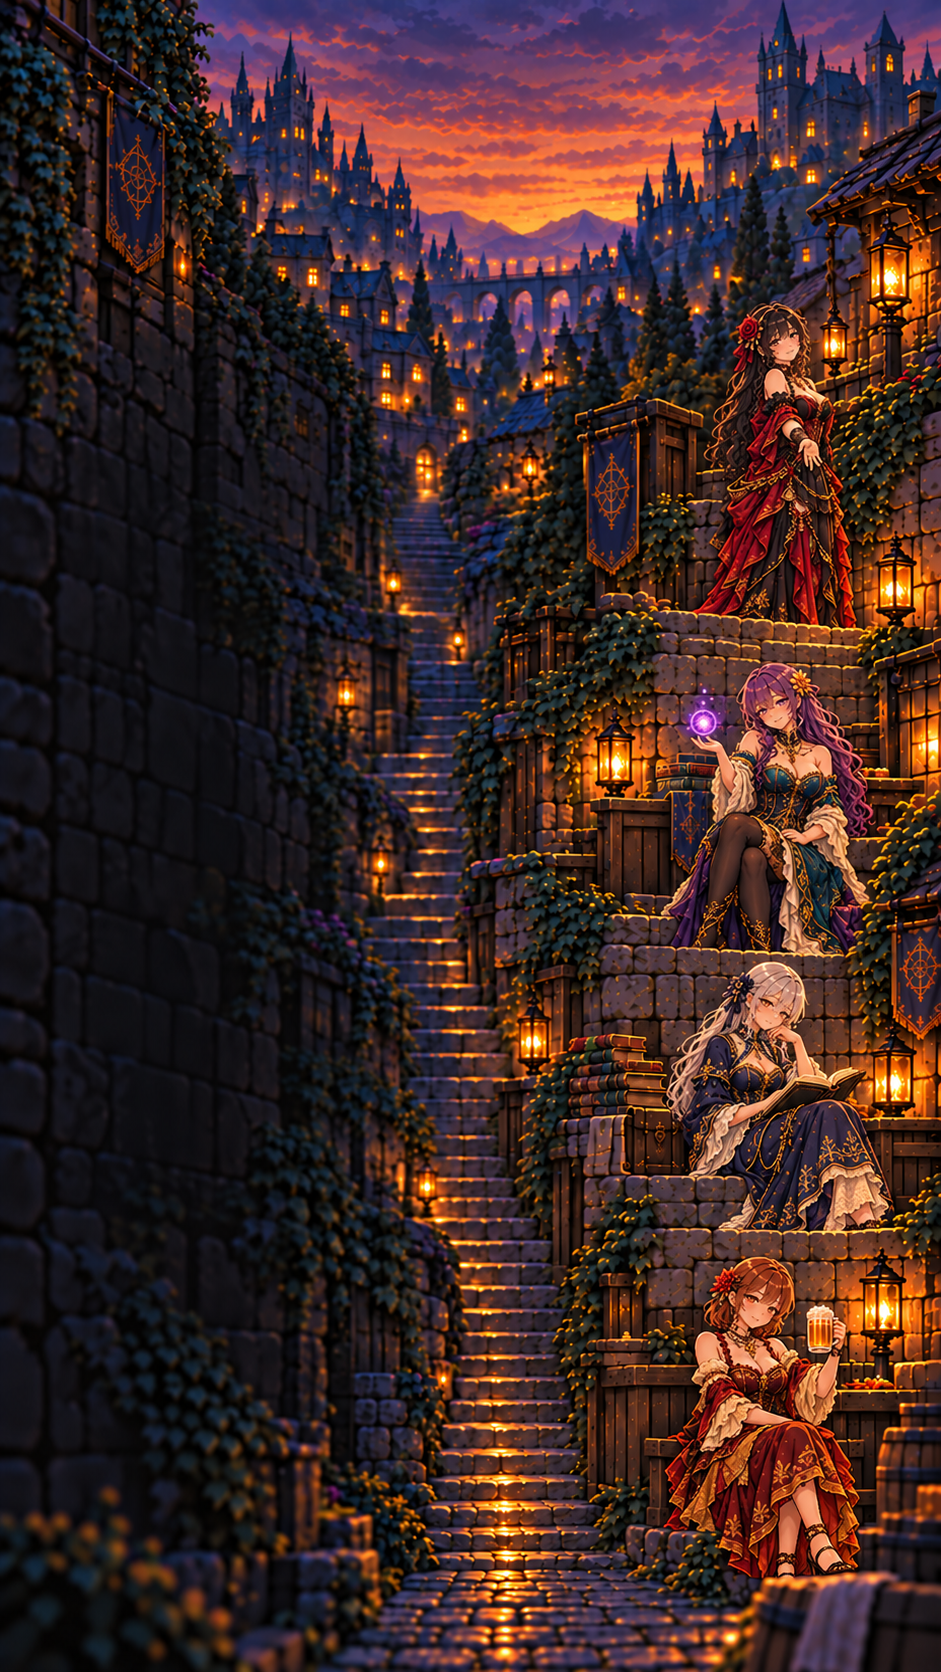
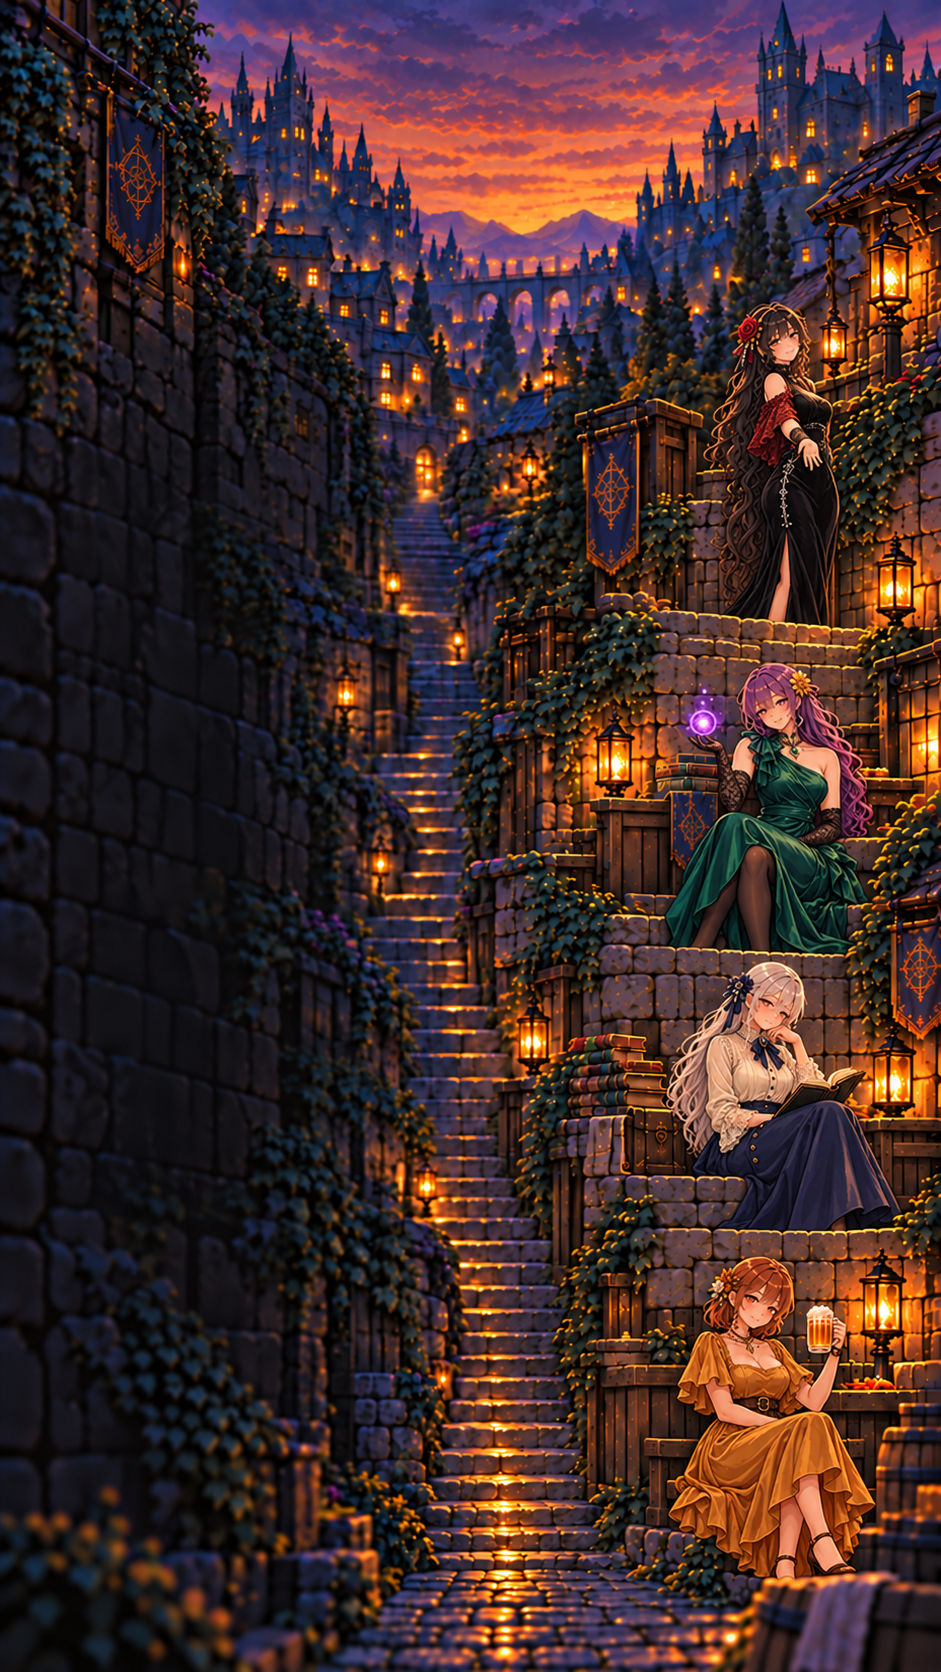
Give each RPG character a distinctly tailored new wardrobe

diff --git a/command-center-98/rpg-account-pages.css b/command-center-98/rpg-account-pages.css
@@ -6,7 +6,7 @@ body dialog.manual-operation-review.rpg-account-page {
  box-sizing:border-box;width:min(920px,100vw);height:100dvh;max-width:100vw;max-height:100dvh;
  margin:auto;padding:28px clamp(16px,4vw,42px) 40px;overflow:auto;overscroll-behavior:contain;
  border:1px solid #bf9c58!important;border-radius:0!important;color:#fff5df!important;
- background:linear-gradient(180deg,#0b101e50,#090e19df 380px),var(--rpg-account-background,url('./assets/rpg-home/world.png?v=20261012.3'))!important;
+ background:linear-gradient(180deg,#0b101e50,#090e19df 380px),var(--rpg-account-background,url('./assets/rpg-home/world.png?v=20261012.4-wardrobe'))!important;
  background-size:cover!important;background-position:center top!important;
  font:15px/1.7 system-ui,-apple-system,'Noto Sans CJK JP','Yu Gothic',sans-serif;
  box-shadow:0 0 100px #0009!important;color-scheme:dark;
@@ -21,8 +21,8 @@ body dialog.rpg-account-page .rpg-account-header{position:relative;isolation:iso
 body dialog.rpg-account-page .rpg-account-header h2{font:clamp(26px,4vw,42px)/1.35 CCRpgDot,monospace;margin:3px 0 8px;color:#fff6dc;letter-spacing:.05em;text-shadow:0 2px 4px #000}
 body dialog.rpg-account-page .rpg-account-kicker{font-size:11px;letter-spacing:.16em;color:#e2c68c;margin:0}
 body dialog.rpg-account-page .rpg-account-subtitle{margin:0;font-size:14px;color:#f1e8d9;text-shadow:0 1px 3px #000}
-body dialog.rpg-account-page .rpg-account-character{position:absolute;right:0;bottom:0;z-index:-1;pointer-events:none;width:200px;height:220px;background-image:var(--rpg-kyun-character,url('./assets/rpg-home/world.png?v=20261012.3'));background-size:620px auto;background-position:-390px -180px;background-repeat:no-repeat;mask-image:linear-gradient(90deg,transparent,#000 15%),linear-gradient(0deg,transparent,#000 12%);mask-composite:intersect}
-body dialog.rpg-account-page[data-account="choi"] .rpg-account-character{background-image:var(--rpg-choi-character,url('./assets/rpg-home/world.png?v=20261012.3'));background-position:-390px -420px}
+body dialog.rpg-account-page .rpg-account-character{position:absolute;right:0;bottom:0;z-index:-1;pointer-events:none;width:200px;height:190px;background-image:var(--rpg-kyun-character,url('./assets/rpg-home/world.png?v=20261012.4-wardrobe'));background-size:620px auto;background-position:-390px -180px;background-repeat:no-repeat;mask-image:linear-gradient(90deg,transparent,#000 15%),linear-gradient(0deg,transparent,#000 12%);mask-composite:intersect}
+body dialog.rpg-account-page[data-account="choi"] .rpg-account-character{background-image:var(--rpg-choi-character,url('./assets/rpg-home/world.png?v=20261012.4-wardrobe'));background-position:-390px -420px}
 body dialog.rpg-account-page[data-account="tiktok"] .rpg-account-character{background-image:var(--rpg-fp-character,none)}
 body dialog.rpg-account-page .rpg-account-tabs{display:grid;grid-template-columns:1fr 1fr;border-block:1px solid var(--account-gold);background:#090f1bed;margin-bottom:16px}
 body dialog.rpg-account-page .rpg-account-tabs button{border:0!important;border-radius:0!important;background:transparent!important;color:#eee6d6!important;min-height:50px;font:19px/1.4 CCRpgDot,monospace!important}

diff --git a/command-center-98/rpg-workspaces.css b/command-center-98/rpg-workspaces.css
@@ -34,8 +34,8 @@ body.cc-rpg-theme .rpg-workspace-dialog .push-button{min-height:44px;white-space
 body.cc-rpg-theme #ccDestination.rpg-workspace-heading[data-rpg-desk="fp"],
 body.cc-rpg-theme #ccDestination.rpg-workspace-heading[data-rpg-desk="sourcing"],
 body.cc-rpg-theme #ccDestination.rpg-workspace-heading[data-rpg-desk="reddit"],
-body.cc-rpg-theme #ccDestination.rpg-workspace-heading[data-rpg-desk="x"]{position:relative;isolation:isolate;overflow:hidden;min-height:180px;background:linear-gradient(90deg,#08101af2 5%,#0a121dd9 70%,#121a2744),url('./assets/rpg-home/world.png?v=20261012.3') center 24%/cover}
-.rpg-workspace-heading{--rpg-fp-character:url('./assets/rpg-home/world.png?v=20261012.3');--rpg-sourcing-character:url('./assets/rpg-home/world.png?v=20261012.3')}
+body.cc-rpg-theme #ccDestination.rpg-workspace-heading[data-rpg-desk="x"]{position:relative;isolation:isolate;overflow:hidden;min-height:180px;background:linear-gradient(90deg,#08101af2 5%,#0a121dd9 70%,#121a2744),url('./assets/rpg-home/world.png?v=20261012.4-wardrobe') center 24%/cover}
+.rpg-workspace-heading{--rpg-fp-character:url('./assets/rpg-home/world.png?v=20261012.4-wardrobe');--rpg-sourcing-character:url('./assets/rpg-home/world.png?v=20261012.4-wardrobe')}
 .rpg-workspace-heading:is([data-rpg-desk="fp"],[data-rpg-desk="sourcing"],[data-rpg-desk="reddit"],[data-rpg-desk="x"])::after{content:"";position:absolute;right:0;top:0;width:190px;height:100%;z-index:-1;pointer-events:none;background-image:var(--rpg-sourcing-character);background-size:310px auto;background-repeat:no-repeat;background-position:right -395px;mask-image:linear-gradient(90deg,transparent,#000 28%)}
 .rpg-workspace-heading[data-rpg-desk="fp"]::after{background-image:var(--rpg-fp-character);background-position:right -301px}
 .rpg-workspace-heading .cc-heading{position:relative;z-index:1}

diff --git a/command-center-98/rpg-home.css b/command-center-98/rpg-home.css
@@ -10,7 +10,7 @@ body.rpg-home-active #mainWindow,body.rpg-home-active .home-mobile-nav{display:n
 #ccRpgHome *{box-sizing:border-box}
 #ccRpgHome button{font:inherit;font-weight:400;color:inherit;cursor:pointer;-webkit-tap-highlight-color:transparent;box-shadow:none;text-transform:none;letter-spacing:normal;transform:none}
 #ccRpgHome .rpg-world{--rpg-frame-h:min(calc(100dvh - env(safe-area-inset-top) - env(safe-area-inset-bottom)),220vw);width:min(100%,calc(var(--rpg-frame-h) * .84 * 941 / 1672));height:var(--rpg-frame-h);flex:none;container-type:inline-size;display:grid;grid-template-rows:84% 16%;position:relative;isolation:isolate;padding:0;background:#15121a}
-#ccRpgHome .rpg-scene{min-height:0;display:grid;grid-template-rows:20% 72% 8%;background-image:linear-gradient(90deg,#12101b50 0%,#12101b20 55%,#12101b05 100%),url('./assets/rpg-home/world.png?v=20261012.3');background-size:100% 100%,auto 100%;background-position:center,right center;background-repeat:no-repeat;position:relative;isolation:isolate;padding:0}
+#ccRpgHome .rpg-scene{min-height:0;display:grid;grid-template-rows:20% 72% 8%;background-image:linear-gradient(90deg,#12101b50 0%,#12101b20 55%,#12101b05 100%),url('./assets/rpg-home/world.png?v=20261012.4-wardrobe');background-size:100% 100%,auto 100%;background-position:center,right center;background-repeat:no-repeat;position:relative;isolation:isolate;padding:0}
 #ccRpgHome .rpg-masthead{display:flex;flex-direction:column;justify-content:center;align-items:center;text-align:center;text-shadow:0 2px 3px #100e19,0 0 16px #110c18a0}
 #ccRpgHome h1{font-size:clamp(28px,11cqw,53px);font-weight:400;letter-spacing:.12em;margin:0 0 3px .12em;line-height:1.2;color:var(--rpg-ivory)}
 #ccRpgHome .rpg-masthead p{font-size:clamp(15px,5.8cqw,24px);letter-spacing:.09em;margin:7px 0 0}
